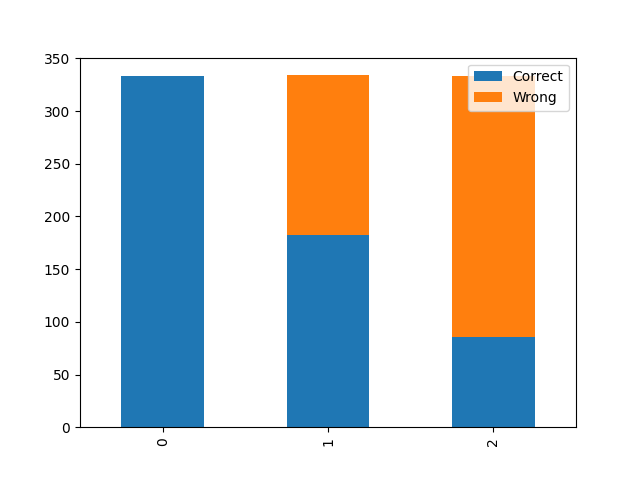
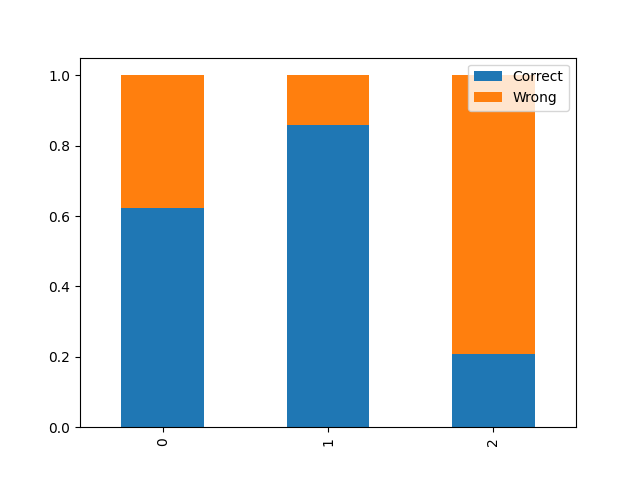
add new callback

diff --git a/8383/Stepanov/pr/8/main.py b/8383/Stepanov/pr/8/main.py
@@ -69,7 +69,9 @@ class CustomCallback(keras.callbacks.Callback):
 
             correctPredictions = [0, 0, 0]
             wrongPredictions = [0, 0, 0]
+            countsPredictions = [0, 0, 0]
             predictions = model.predict(X)
+
 
             for i in range(len(predictions)):
                 if (np.argmax(predictions[i]) == np.argmax(Y[i])):
@@ -77,10 +79,17 @@ class CustomCallback(keras.callbacks.Callback):
                 else:
                     wrongPredictions[np.argmax(Y[i])] += 1
 
+                countsPredictions[np.argmax(Y[i])] += 1
+
+
+
+            correctPredictions = np.divide(correctPredictions, countsPredictions)
+            wrongPredictions = np.divide(wrongPredictions, countsPredictions)
+
+            #
             # print("Correct:", correctPredictions)
             # print("Wrong:", wrongPredictions)
-            # print("All:", np.sum(correctPredictions) + np.sum(wrongPredictions))
-            # print("In classes:", np.add(correctPredictions,  wrongPredictions))
+            # print("count", countsPredictions)
 
             data = {'Correct': correctPredictions,
                     'Wrong': wrongPredictions}
